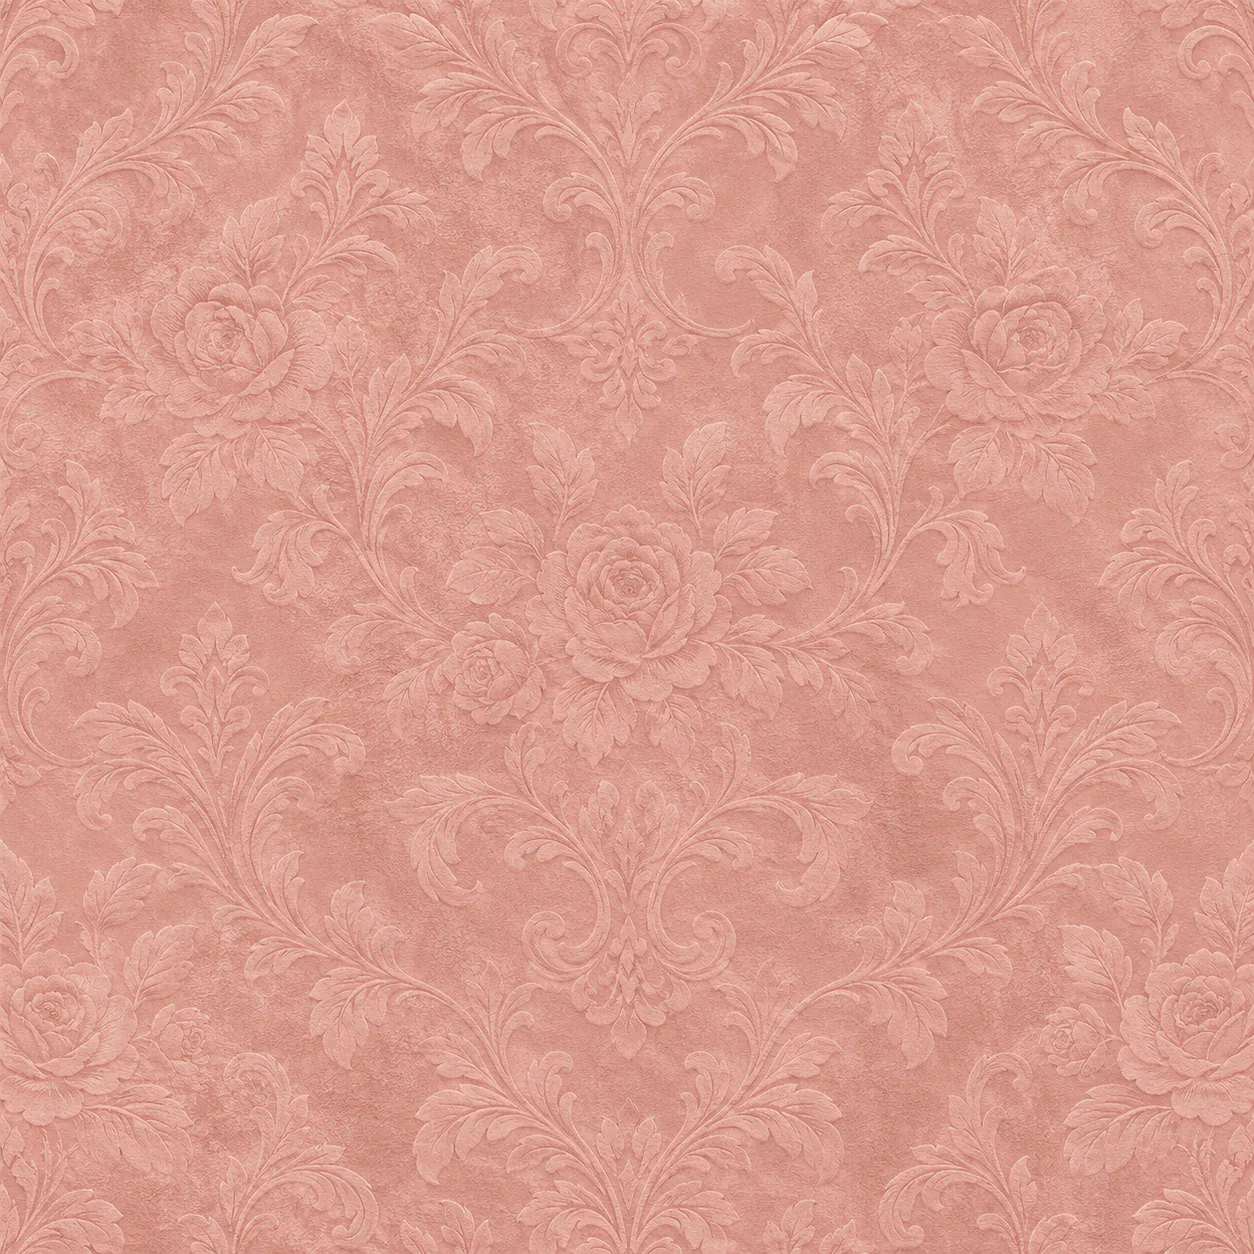
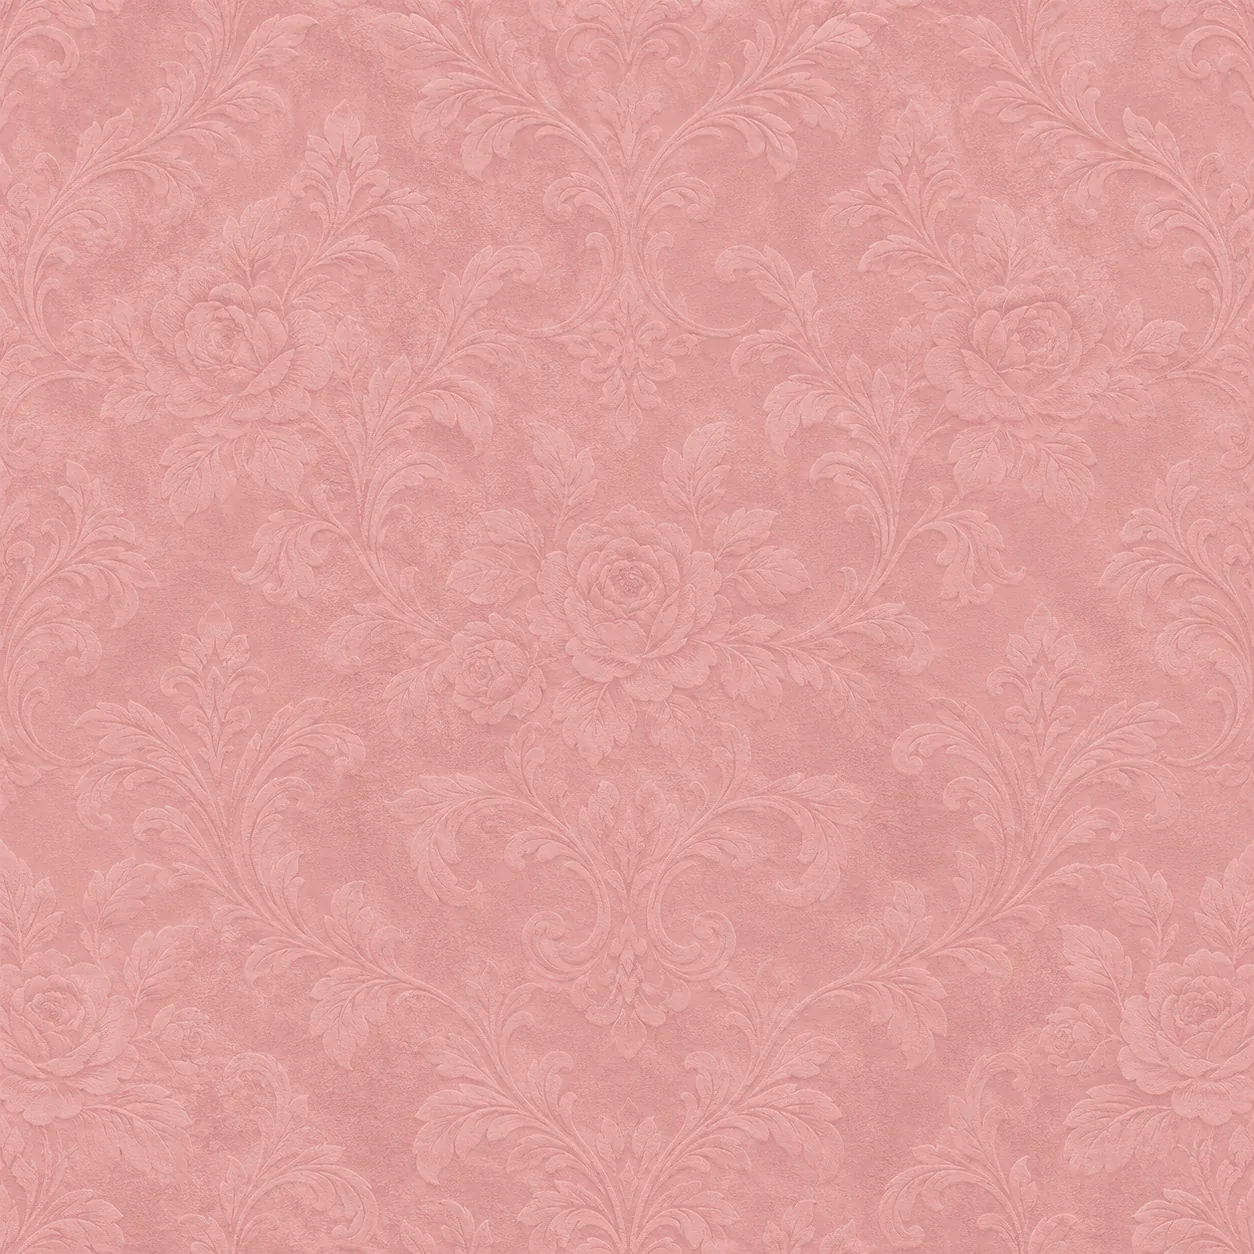
Gulab Mahal: the closed envelope is closed, the seal's initials read, and the cover is set on the pages' own ground; the strips of lining the closed flap's art leaves between its edges and the pocket's are covered by the flap's own paper (its picture at twice its size, cut by a static clip to the li

diff --git a/templates/gulab-mahal/gulab.module.css b/templates/gulab-mahal/gulab.module.css
@@ -32,10 +32,11 @@
 /* ───────────────────────── The ground ───────────────────────── */
 
 /*
-  The damask, pulled from its slight peach towards pink by a blush laid over
-  it, under a soft-light sheen like light across velvet. Three background
-  layers of one element, blended within it, so the whole ground is painted
-  once and moved as one picture.
+  The damask, pulled from its slight peach towards pink by a blush that is
+  painted into the picture itself, under a soft sheen like light across
+  velvet: a picture and one translucent gradient over it, with no blending
+  to work out, so the ground is cheap to paint whenever it has to be (the
+  browser paints it again when the screen goes full screen).
 
   Taller than the screen by 24vh, which the scroll uses for depth: as the
   guest goes down the pages the ground rises a little (`gm-ground-depth`), far
@@ -43,18 +44,16 @@
 */
 .ground {
   pointer-events: none;
-  background-color: var(--gm-blush);
+  background-color: var(--gm-blush, #e9bdbb);
   background-image:
     linear-gradient(
       160deg,
       rgb(255 255 255 / 0) 18%,
-      rgb(255 238 242 / 0.6) 42%,
+      rgb(255 242 245 / 0.26) 42%,
       rgb(255 255 255 / 0) 60%,
-      rgb(90 30 43 / 0.22) 100%
+      rgb(90 30 43 / 0.1) 100%
     ),
-    linear-gradient(rgb(236 168 186 / 0.34), rgb(236 168 186 / 0.34)),
     url("/templates/gulab-mahal/gulab-bg.webp");
-  background-blend-mode: soft-light, normal, normal;
   background-position: center;
   background-size: cover;
 }
@@ -238,30 +237,55 @@
 
 /* ───────────────────────── Page 1: the envelope ───────────────────────── */
 
-/* The cover's ground: the card's blush as velvet, with no picture to wait for. */
+/* The cover's ground: everything under the envelope, faded as one at the hand-over. */
 .coverGround {
   position: absolute;
   inset: 0;
-  background-color: var(--gm-blush, #e9bdbb);
-  background-image:
-    radial-gradient(120% 70% at 50% 45%, rgb(255 236 238 / 0.55), rgb(255 236 238 / 0) 62%),
-    linear-gradient(160deg, #edc6c4 0%, #e3aeae 55%, #d79c9f 100%);
+  overflow: hidden;
   /* Its own layer while the cover waits, so its fade at the hand-over paints nothing. */
   will-change: opacity;
 }
 
+/* The pages' damask, the same height as theirs, so it is the same picture at the same size. */
+.coverDamask {
+  position: absolute;
+  inset: 0 0 auto;
+  height: calc(100lvh + 24vh);
+}
+
+/* The phone column, under the host's preview strip as page 2 is, which the corners are placed in. */
+.coverColumn {
+  position: absolute;
+  top: var(--lifafa-preview-h, 0px);
+  bottom: 0;
+  left: 0;
+  right: 0;
+  max-width: 30rem;
+  margin-inline: auto;
+}
+
+/* A rose corner as page 2 has it: the same width, 36% of the column. */
+.coverCorner {
+  position: absolute;
+  width: calc(min(36vw, 10.8rem) * 1.0625);
+}
+
 /*
-  The envelope and the prompt under it. Placed by its box, never by a
-  transform, so the layout the opening is measured from is the layout seen.
-  The envelope's middle is a little above the screen's.
+  The envelope and the prompt under it, centred together in the space under
+  "You are invited". Placed by its box, never by a transform, so the layout
+  the opening is measured from is the layout seen.
 */
 .envelopePlace {
   position: absolute;
   inset-inline: 0;
-  top: calc(47% - min(84vw, 25rem) * 0.3039);
+  --env: min(92vw, 27.5rem);
+
+  top: calc(var(--cover-top-h, 0px) + max(5.5vh, 28px) + 3.75rem);
+  bottom: 0;
   display: flex;
   flex-direction: column;
   align-items: center;
+  justify-content: center;
 }
 
 @keyframes gm-envelope-bob {
@@ -281,14 +305,14 @@
 }
 
 /*
-  The envelope's body, which every layer is placed in by shares of it: 84% of
-  the screen across, at most 25rem, sized by width alone so that the screen
+  The envelope's body, which every layer is placed in by shares of it: 92% of
+  the screen across, at most 27.5rem (`--env`), sized by width alone so that the screen
   growing as the browser's bars go moves nothing. Leaning 4 degrees at rest;
   the opening brings it upright.
 */
 .envelope {
   position: relative;
-  width: min(84vw, 25rem);
+  width: var(--env);
   transform: rotate(-4deg);
   will-change: transform;
 }
@@ -312,7 +336,7 @@
 .flapHinge {
   position: absolute;
   inset: 0;
-  perspective: calc(min(84vw, 25rem) * 2.4);
+  perspective: calc(var(--env) * 2.4);
   perspective-origin: 50% 0;
 }
 
@@ -333,6 +357,24 @@
 /* The flap's back: the same picture, turned over by its own rotation and darkened. */
 .flapBack {
   filter: brightness(0.8) saturate(0.92);
+}
+
+/* The flap's paper over the lining, under a clip that never changes. */
+.liner {
+  position: absolute;
+  inset: 0;
+  will-change: opacity;
+}
+
+/* The flap's picture at twice its size, centred: only its plain middle falls inside the lining. */
+.linerArt {
+  position: absolute;
+  top: 0;
+  left: -50%;
+  width: 200%;
+  height: auto;
+  max-width: none;
+  user-select: none;
 }
 
 /*
@@ -381,7 +423,7 @@
   display: flex;
   align-items: center;
   justify-content: center;
-  font-size: calc(min(84vw, 25rem) * 0.74 * 0.052);
+  font-size: calc(var(--env) * 0.74 * 0.052);
 }
 
 .letterName {
@@ -473,7 +515,7 @@
   filter: drop-shadow(0 0.25rem 0.4rem rgb(90 30 43 / 0.3));
 }
 
-/* The initials, engraved: a deeper copper, lit below and shaded above. */
+/* The initials, engraved in deep wine, which reads on the rose gold, with a soft light under each stroke. */
 .sealMark {
   position: absolute;
   display: inline-flex;
@@ -481,13 +523,11 @@
   justify-content: center;
   gap: 0.06em;
   translate: -50% -50%;
-  color: #8f4b3f;
-  font-size: calc(min(84vw, 25rem) * 0.27 * 0.2);
+  color: rgb(90 30 43 / 0.85);
+  font-size: calc(var(--env) * 0.27 * 0.23);
   line-height: 1.3;
   text-align: center;
-  text-shadow:
-    0 1px 0 rgb(255 226 210 / 0.65),
-    0 -1px 0 rgb(80 34 26 / 0.45);
+  text-shadow: 0 1px 0.5px rgb(255 236 226 / 0.6);
 }
 
 .sealAnd {
@@ -536,7 +576,7 @@
 .corner {
   position: absolute;
   z-index: 0;
-  width: calc(min(36cqw, 11rem) * 1.0625);
+  width: calc(min(36cqw, 10.8rem) * 1.0625);
   pointer-events: none;
 }
 
@@ -563,6 +603,23 @@
 /* Turned round inside its box, which slides in from its own corner. */
 .cornerFoot .cornerArt {
   rotate: 180deg;
+}
+
+/*
+  The top one keeps clear of the language switch: down by as much of the
+  corner as the switch takes while it shows (it publishes that), so the
+  switch sits on plain damask; back up as the switch tucks itself away.
+*/
+.cornerTop .cornerArt {
+  translate: 0 min(var(--lifafa-header-clear, 0px), 4.75rem);
+  transition: translate 300ms ease-out;
+}
+
+/* On a screen wide enough that the switch is beside the phone column, not over it, the corner stays in its corner. */
+@media (min-width: 46.25rem) {
+  .cornerTop .cornerArt {
+    translate: none;
+  }
 }
 
 .cornerIn {

diff --git a/templates/gulab-mahal/Cover.tsx b/templates/gulab-mahal/Cover.tsx
@@ -16,6 +16,7 @@ import {
   FLAP_BOX,
   FLAP_TIP,
   LETTER_ASPECT,
+  LINING_CLIP,
   PETAL_ASPECT,
   POCKET_CLIP,
   POCKET_DEPTH,
@@ -45,6 +46,8 @@ import { useFitInside } from "@/templates/gulab-mahal/useFitInside";
  *   the pocket            the body again, cut to the pocket's front by a
  *                         clip that never changes: the letter slides out
  *                         from behind it
+ *   the liner             the flap's paper over the strips of lining the
+ *                         closed flap leaves, until the flap lifts
  *   the closed flap       from 0 to 90 degrees
  *   the petals, the seal  the seal whole, and its two halves, each cut along
  *                         the same jagged line by a clip that never changes
@@ -161,6 +164,7 @@ interface Parts {
   letter: HTMLElement;
   letterFace: HTMLElement;
   front: HTMLElement;
+  liner: HTMLElement;
   closedFlap: HTMLElement;
   glow: HTMLElement;
   press: HTMLElement;
@@ -302,6 +306,14 @@ function buildOpening(parts: Parts, m: Measure): Animation[] {
     { offset: 1, opacity: 0 },
   ]);
 
+  /* The paper over the lining goes as the seal cracks, just before the flap lifts. */
+  add(parts.liner, [
+    { offset: 0, opacity: 1 },
+    { offset: at(180), opacity: 1, easing: "ease-in" },
+    { offset: at(FLAP_AT + 40), opacity: 0 },
+    { offset: 1, opacity: 0 },
+  ]);
+
   /* The flap: its front to 90 degrees, then gone; its darkened back from 90 to 180, behind the letter. */
   const flapEnd = FLAP_AT + FLAP_HALF;
   add(parts.closedFlap, [
@@ -425,6 +437,7 @@ export default function GulabMahalCover({
   const letterFaceRef = useRef<HTMLDivElement>(null);
   const frontRef = useRef<HTMLDivElement>(null);
   const closedFlapRef = useRef<HTMLDivElement>(null);
+  const linerRef = useRef<HTMLDivElement>(null);
   const glowRef = useRef<HTMLSpanElement>(null);
   const pressRef = useRef<HTMLDivElement>(null);
   const wholeRef = useRef<HTMLDivElement>(null);
@@ -455,6 +468,7 @@ export default function GulabMahalCover({
       letter: letterRef.current,
       letterFace: letterFaceRef.current,
       front: frontRef.current,
+      liner: linerRef.current,
       closedFlap: closedFlapRef.current,
       glow: glowRef.current,
       press: pressRef.current,
@@ -569,8 +583,25 @@ export default function GulabMahalCover({
 
   return (
     <div ref={layerRef} aria-hidden="true" className="pointer-events-none absolute inset-0">
-      {/* The cover's own ground, which it fades itself; see CoverVisualState. */}
-      <div ref={groundRef} className={styles.coverGround} />
+      {/*
+        The cover's own ground, which it fades itself (see CoverVisualState):
+        the pages' own damask, blush and sheen, laid exactly as theirs is, and
+        page 2's two rose corners where page 2 has them, so the cover fades to
+        the same ground and the same roses.
+      */}
+      <div ref={groundRef} className={styles.coverGround}>
+        <div className={`${styles.ground} ${styles.coverDamask}`} />
+        <div className={styles.coverColumn}>
+          <div className={`${styles.coverCorner} ${styles.cornerTop}`}>
+            {/* eslint-disable-next-line @next/next/no-img-element */}
+            <img src={ART.corner} alt="" draggable={false} className={styles.cornerArt} />
+          </div>
+          <div className={`${styles.coverCorner} ${styles.cornerFoot}`}>
+            {/* eslint-disable-next-line @next/next/no-img-element */}
+            <img src={ART.corner} alt="" draggable={false} className={styles.cornerArt} />
+          </div>
+        </div>
+      </div>
 
       <div className={styles.envelopePlace}>
         <div ref={bobRef} className={styles.envelopeBob}>
@@ -633,8 +664,19 @@ export default function GulabMahalCover({
               </div>
             </div>
 
-            {/* The front: the pocket, the closed flap, the petals and the seal. */}
+            {/* The front: the paper over the lining, the pocket, the closed flap, the petals and the seal. */}
             <div ref={frontRef} className={styles.envelopeLayer}>
+              {/*
+                The flap's own paper over the strips of lining the closed flap
+                leaves showing, so the closed envelope is closed: the flap's
+                picture at twice its size, of which only its plain middle is
+                inside the lining's shape. Behind the pocket, which covers its
+                lower edge.
+              */}
+              <div ref={linerRef} className={styles.liner} style={{ clipPath: LINING_CLIP }}>
+                {/* eslint-disable-next-line @next/next/no-img-element */}
+                <img src={ART.envelopeFlap} alt="" draggable={false} className={styles.linerArt} />
+              </div>
               {/* eslint-disable-next-line @next/next/no-img-element */}
               <img
                 src={ART.envelopeBody}

diff --git a/templates/gulab-mahal/art.ts b/templates/gulab-mahal/art.ts
@@ -35,11 +35,13 @@ export const ART = {
 export const PETAL_ASPECT: readonly number[] = [184 / 209, 230 / 257, 305 / 316, 277 / 297];
 
 /**
- * What the cover waits for before it shows: the envelope's three pictures,
- * the letter that comes out of it and the four petals the seal bursts into,
- * and nothing of the card's. (The fonts are waited for by the shell.)
+ * What the cover waits for before it shows: the damask and the rose corner it
+ * is set on, the envelope's three pictures, the letter that comes out of it
+ * and the four petals the seal bursts into, and nothing of the card's. (The fonts are waited for by the shell.)
  */
 export const COVER_IMAGES: readonly string[] = [
+  ART.ground,
+  ART.corner,
   ART.envelopeBody,
   ART.envelopeFlap,
   ART.seal,
@@ -108,6 +110,19 @@ export const POCKET_CLIP = `polygon(${[
   ...POCKET_EDGE.map(([x, y]) => `${percent(across(x))} ${percent(down(y - 3))}`),
   "100% 100%",
   "0% 100%",
+].join(", ")})`;
+
+/*
+  The lining, which the closed flap does not wholly cover: the art leaves a
+  strip of it between the flap's edges and the pocket's. The cover lays the
+  flap's own paper over it, cut to this shape: the body's box above the
+  pocket's edge, reaching 6px under the pocket so no hairline is left between
+  them.
+*/
+export const LINING_CLIP = `polygon(${[
+  "0% 0%",
+  "100% 0%",
+  ...[...POCKET_EDGE].reverse().map(([x, y]) => `${percent(across(x))} ${percent(down(y + 6))}`),
 ].join(", ")})`;
 
 /** The V's lowest point, which the letter waits below. */
